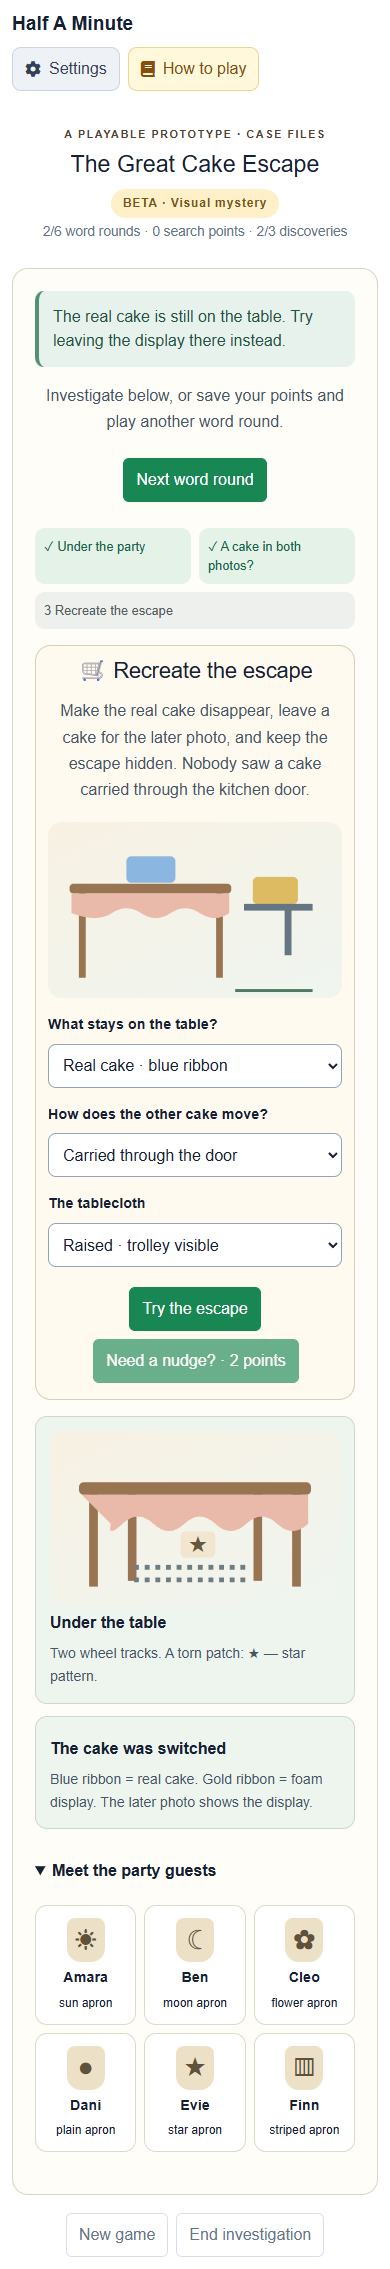
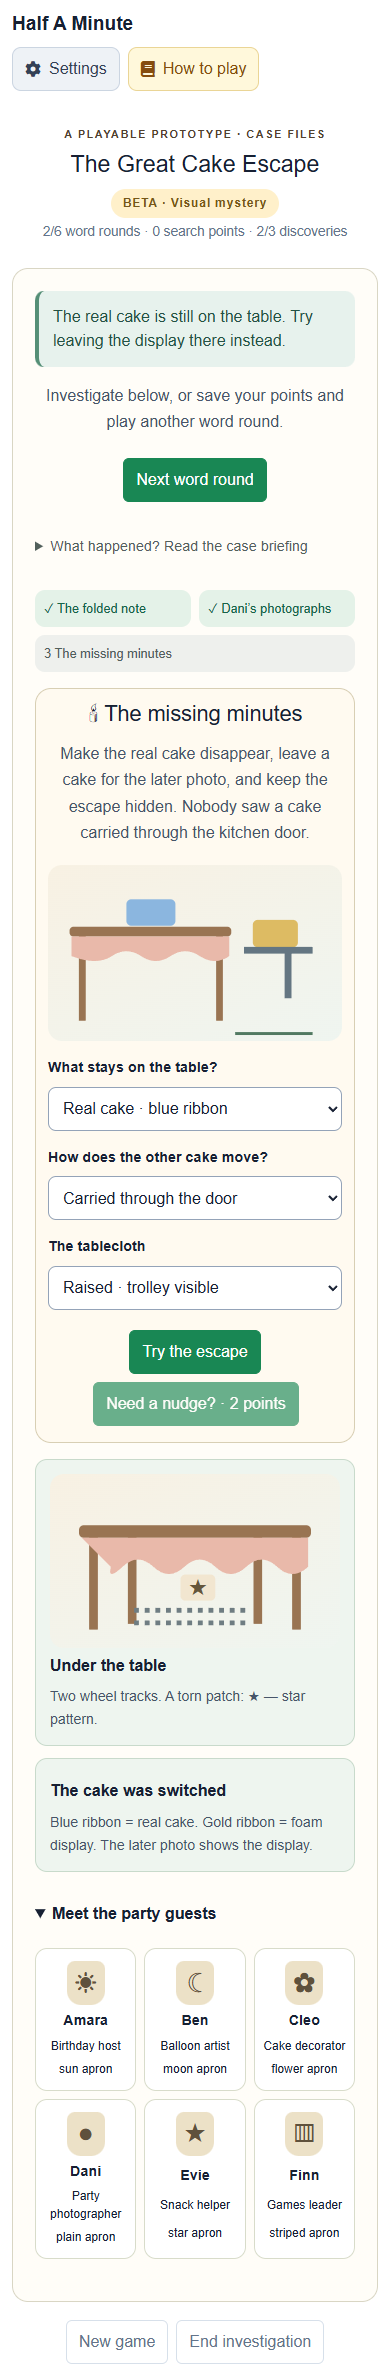
Set the scene before Cake Escape Beta begins

diff --git a/gameplay/cake-beta-ui.js b/gameplay/cake-beta-ui.js
@@ -1,15 +1,23 @@
 import { caseStory } from './cases.js?v=20261031.beta1';
 import { countdownLabel } from './rules.js?v=20261030.2';
-import { BETA_PUZZLES } from './cake-beta-state.js?v=20261031.beta1';
+import { BETA_PUZZLES } from './cake-beta-state.js?v=20261031.beta2';
 const h=(tag,cls='',text='')=>{const n=document.createElement(tag);n.className=cls;n.textContent=text;return n;};
 const note=(parent,text,cls='party-note')=>parent.appendChild(h('p',cls,text));
 function button(text,action,disabled=false,data={}){const n=h('button','btn btn-success',text);n.type='button';n.dataset.betaAction=action;n.disabled=disabled;for(const[k,v]of Object.entries(data))n.dataset[k]=String(v);return n;}
 const marks=['☀','☾','✿','●','★','▥'];
 const aprons=['sun','moon','flower','plain','star','striped'];
+const opening = [
+    'The music stops at Amara’s birthday party. Everyone gathers for the candles—but the cake stand is empty.',
+    'Dani’s latest photo seems to show a cake still in place. Nobody saw one carried through the kitchen door. So how did it disappear?',
+    'Six helpers were preparing the surprise. One has hidden the real cake as a prank and is keeping quiet. A folded note lies beside the empty stand. Someone wants you to play along.'
+];
 function picture(kind,options={}){
     const n=document.createElementNS('http://www.w3.org/2000/svg','svg');n.setAttribute('viewBox','0 0 300 180');n.setAttribute('role','img');
     let body='',label='';
-    if(kind==='cake'){
+    if(kind==='scene'){
+        label='Birthday party room: bunting, balloons, an empty cake stand and a folded note; kitchen door on the left, garden on the right.';
+        body='<path d="M14 15q136 50 272 0" fill="none" stroke="#9d9c82" stroke-width="2"/><path d="M40 23l9 21 13-16m27 7l10 21 12-18m28 3l10 21 11-21m28-3l12 20 10-23m25-9l13 18 8-23" fill="#c77c77"/><rect x="12" y="65" width="44" height="95" rx="5" fill="#f3dfba" stroke="#ad9b7c"/><circle cx="47" cy="112" r="3" fill="#967f57"/><rect x="242" y="70" width="45" height="73" rx="5" fill="#d6e7d0"/><path d="M248 131l11-28 9 19 12-35" fill="none" stroke="#8da882" stroke-width="4"/><path d="M60 146h180v20H60z" fill="#e7b4a4"/><path d="M65 166v9m170-9v9" stroke="#a3825d" stroke-width="5"/><ellipse cx="150" cy="140" rx="40" ry="6" fill="#a7b6b6"/><path d="M145 141v10h10v-10" fill="#a7b6b6"/><path d="M127 129v-32h46v32" fill="none" stroke="#b0a58b" stroke-width="2" stroke-dasharray="4 4"/><text x="150" y="120" text-anchor="middle" font-size="26" fill="#8a7b62">?</text><path d="M201 135h19l-4 10h-19z" fill="#fffaf0" stroke="#a9987a"/><path d="M200 136l7 5 11-5" fill="none" stroke="#a9987a"/><ellipse cx="219" cy="66" rx="12" ry="17" fill="#d7b363"/><ellipse cx="202" cy="59" rx="12" ry="17" fill="#9bb8c4"/><path d="M219 83l-3 39m-14-46l14 46" stroke="#ae9d85" fill="none"/>';
+    }else if(kind==='cake'){
         const gold=options.gold;label=gold?'Later photo: cake-shaped display with a gold ribbon, three red decorations and a silver stand.':'Before photo: real cake with a blue ribbon, three red decorations and a silver stand.';
         body=`<path d="M45 140h210v12H45z" fill="#8caaab"/><path d="M141 138v25h18v-25" fill="#bcc9ca"/><rect x="68" y="70" width="164" height="68" rx="10" fill="#f4d8b3"/><path d="M68 84q12 20 24 0t24 0t24 0t24 0t24 0t24 0v-14H68z" fill="#fff9eb"/><rect x="68" y="113" width="164" height="13" fill="${gold?'#b78318':'#3264b7'}"/><path d="M140 109l-15-6v26l15-6 15 6v-26z" fill="${gold?'#b78318':'#3264b7'}"/><g fill="#bd4450"><circle cx="105" cy="65" r="9"/><circle cx="150" cy="65" r="9"/><circle cx="195" cy="65" r="9"/></g><g stroke="#47754f" stroke-width="3"><path d="M105 57l5-10m40 10l5-10m40 10l5-10"/></g>`;
     }else if(kind==='table'){
@@ -52,17 +60,25 @@ export function createBetaSurface(root,callbacks){
     root.addEventListener('change',event=>{const field=event.target.dataset.betaField;if(!field)return;send({type:field==='suspect'||field==='destination'?'beta-theory':'beta-experiment',field,value:event.target.value,index:Number(event.target.value),revision:current.game.party.beta.revision});});
     function people(parent,story){
         const section=h('details','beta-people');section.open=true;section.appendChild(h('summary','','Meet the party guests'));
-        const list=h('div','beta-suspects');story.people.forEach((p,i)=>{const card=h('div','beta-suspect');card.appendChild(h('span','beta-apron',marks[i]));card.appendChild(h('strong','',p.name));card.appendChild(h('small','',`${aprons[i]} apron`));list.appendChild(card)});section.appendChild(list);parent.appendChild(section);
+        const list=h('div','beta-suspects');story.people.forEach((p,i)=>{const card=h('div','beta-suspect');card.appendChild(h('span','beta-apron',marks[i]));card.appendChild(h('strong','',p.name));card.appendChild(h('small','',p.role));card.appendChild(h('small','',`${aprons[i]} apron`));list.appendChild(card)});section.appendChild(list);parent.appendChild(section);
+    }
+    function briefing(parent,story,full=true){
+        const scene=h('section','beta-briefing');
+        if(full){scene.appendChild(h('span','party-eyebrow','The birthday bash · Moments before the candles'));scene.appendChild(h('h3','','The cake that couldn’t have vanished'));scene.appendChild(picture('scene'));}
+        opening.forEach(text=>note(scene,text));
+        const mission=h('div','beta-mission');mission.appendChild(h('strong','','Your mission'));note(mission,'Find who took the cake, uncover the trick, and recover it before the party resumes.');scene.appendChild(mission);parent.appendChild(scene);
+        if(full){people(parent,story);note(parent,'Play word rounds to earn search points. Spend 2 points to follow a lead or ask for a hint. Investigate together; only the speaker sees the word card.','beta-how');}
     }
     function select(parent,label,field,choices,value,disabled){const wrap=h('div','form-field');const caption=h('label','',label);caption.htmlFor='beta-'+field;const input=h('select');input.id=caption.htmlFor;input.dataset.betaField=field;input.disabled=disabled;for(const[v,text]of choices){const option=h('option','',text);option.value=String(v);input.appendChild(option)}input.value=String(value);wrap.append(caption,input);parent.appendChild(wrap);}
     function board(parent,state){
         const {game,view,busy,local}=state,b=game.party.beta,story=caseStory(game),locked=busy||!view.canExplore;
-        const nav=h('div','beta-steps');BETA_PUZZLES.forEach((p,i)=>nav.appendChild(h('span',b.solved[i]?'is-solved':'',`${b.solved[i]?'✓':i+1} ${p.title}`)));parent.appendChild(nav);
+        const recap=h('details','beta-recap');recap.appendChild(h('summary','','What happened? Read the case briefing'));briefing(recap,story,false);parent.appendChild(recap);
+        const nav=h('div','beta-steps');BETA_PUZZLES.forEach((p,i)=>nav.appendChild(h('span',b.solved[i]?'is-solved':'',`${b.solved[i]?'✓':i+1} ${b.opened[i]||b.solved[i]||i===0?p.title:'Undiscovered lead'}`)));parent.appendChild(nav);
         const index=[0,1,2].find(i=>!b.solved[i]);
         if(index!==undefined){const p=BETA_PUZZLES[index],card=h('section','beta-puzzle');card.appendChild(h('h3','',`${p.icon} ${p.title}`));
-            if(!b.opened[index]){note(card,index===0?'A witness left a riddle. Search the party scene to follow the cake.':index===1?'Develop two photos. Is the cake really where everyone thinks it is?':'Use the discoveries to try the escape for yourselves.');card.appendChild(button(`Investigate · ${p.cost} points`,'beta-buy',locked||b.points<p.cost,{index}));if(b.points<p.cost)note(card,`Earn ${p.cost-b.points} more search point${p.cost-b.points===1?'':'s'} in a word round.`);}
+            if(!b.opened[index]){note(card,index===0?'Someone left this note beside the empty stand. Earn your first search points to open it.':index===1?'The tracks suggest something moved. Dani took photos during the party—what did the camera see?':'The later photo shows a display. Can you explain how the real cake left without being seen?');card.appendChild(button(`Investigate · ${p.cost} points`,'beta-buy',locked||b.points<p.cost,{index}));if(b.points<p.cost)note(card,`Earn ${p.cost-b.points} more search point${p.cost-b.points===1?'':'s'} in a word round.`);}
             else{
-                if(index===0){card.appendChild(picture('table'));note(card,'“Four legs. A skirt. Something hidden underneath.”','beta-riddle');note(card,'Where would you look?');const choices=h('div','beta-choices');for(const[id,text]of [['table','🪑 Under the table'],['door','🚪 Behind the door'],['garden','🌿 In the garden'],['camera','📷 Inside the camera']])choices.appendChild(button(text,'beta-answer',locked,{index,answer:id}));card.appendChild(choices);}
+                if(index===0){card.appendChild(picture('scene'));note(card,'Inside the folded note:');note(card,'“Four legs. A skirt. Something hidden underneath.”','beta-riddle');note(card,'Where would you look?');const choices=h('div','beta-choices');for(const[id,text]of [['table','🪑 Under the table'],['door','🚪 Behind the door'],['garden','🌿 In the garden'],['camera','📷 Inside the camera']])choices.appendChild(button(text,'beta-answer',locked,{index,answer:id}));card.appendChild(choices);}
                 if(index===1){const pair=h('div','beta-photos');for(const[gold,label]of [[false,'Before the disappearance'],[true,'Later: a cake is still there']]){const panel=h('figure');panel.appendChild(picture('cake',{gold}));panel.appendChild(h('figcaption','',label));pair.appendChild(panel)}card.appendChild(pair);note(card,'What changed? The real cake has a blue ribbon. The foam display has a gold ribbon.');const choices=h('div','beta-choices');for(const[id,label]of [['ribbon','The ribbon'],['candles','The red decorations'],['stand','The stand']])choices.appendChild(button(label,'beta-answer',locked,{index,answer:id}));card.appendChild(choices);}
                 if(index===2){note(card,'Make the real cake disappear, leave a cake for the later photo, and keep the escape hidden. Nobody saw a cake carried through the kitchen door.');card.appendChild(picture('experiment',{experiment:b.experiment}));select(card,'What stays on the table?','prop',[['real','Real cake · blue ribbon'],['foam','Foam display · gold ribbon']],b.experiment.prop,locked);select(card,'How does the other cake move?','transport',[['hand','Carried through the door'],['trolley','Trolley under the table']],b.experiment.transport,locked);select(card,'The tablecloth','cloth',[['up','Raised · trolley visible'],['down','Lowered · trolley hidden']],b.experiment.cloth,locked);card.appendChild(button('Try the escape','beta-test',locked));}
                 const hints=b.hints[index]||0;for(let j=0;j<hints;j++)note(card,p.hints[j],'beta-hint');if(hints<p.hints.length)card.appendChild(button('Need a nudge? · 2 points','beta-hint',locked||b.points<2,{index}));
@@ -90,8 +106,9 @@ export function createBetaSurface(root,callbacks){
         const body=h('section','party-stage');root.appendChild(body);const active=state.connected&&(view.active||local),host=view.host||local;
         if(feedback)note(body,feedback,'party-feedback');
         if(!active){note(body,state.connected?'Rejoin to restore your seat.':'Connection lost. Reconnecting…');body.appendChild(button('Rejoin lobby','rejoin',busy));}
+        else if(!game.isGameStarted){body.appendChild(picture('scene'));body.appendChild(h('h3','','A birthday surprise has gone wrong'));note(body,'The guests are ready for the candles. The cake has vanished. Gather your crew to uncover what happened.');note(body,'2–12 players · One shared mystery');if(host)body.appendChild(button('Open the case','start-game',busy||!view.canStartGame));else note(body,'The host opens the case when everyone is ready.');}
+        else if(game.phase==='briefing'){briefing(body,caseStory(game));if(host)body.appendChild(button('Begin investigation','beta-begin',busy));else note(body,'Read the scene together. The host begins the investigation when the crew is ready.');}
         else if(gateName&&game.phase!=='finished'){body.appendChild(h('h3','',`Pass the device to ${gateName}`));note(body,'Only the speaker sees the word card. Everyone guesses aloud.');body.appendChild(button(`I’m ${gateName}`,'local-ready',false,{playerId:gateId}));}
-        else if(!game.isGameStarted){body.appendChild(picture('cake'));body.appendChild(h('h3','','The candles are ready. The cake is gone.'));note(body,'Earn search points by guessing words. Spend 2 to investigate a puzzle or get a hint. Solve three discoveries, then find the prankster and the cake.');note(body,'2–12 players · One crew · Random speakers, with no repeats until everyone has spoken.');if(host)body.appendChild(button('Start the beta case','start-game',busy||!view.canStartGame));else note(body,'The host starts when everyone is ready.');}
         else if(game.phase==='describing'){body.appendChild(h('h3','',view.countdownRemainingMs?'Get ready…':view.speaker?'Describe these words':'Guess aloud'));body.appendChild(h('strong','party-clock',view.countdownRemainingMs?countdownLabel(view.countdownRemainingMs):String(view.remainingSeconds))).id='partyClock';note(body,view.countdownRemainingMs?'Words stay hidden until Go.':'Every correct word earns one search point for the crew.');if(view.showWords){const list=h('ol','table-word-card');game.turn.words.forEach(word=>list.appendChild(h('li','party-word',word)));body.appendChild(list)}if(view.canEndRound)body.appendChild(button('End round','end-round',busy));}
         else if(game.phase==='selecting'){body.appendChild(h('h3','','Which words were guessed?'));note(body,'Each correct word earns 1 shared search point. Your saved points carry over.');game.turn.words.forEach((word,i)=>{const n=button(`${game.turn.selectedIndexes.includes(i)?'✓ ':''}${word}`,'toggle-answer',busy||!view.canSelect,{index:i});n.className='party-answer'+(game.turn.selectedIndexes.includes(i)?' is-selected':'');n.setAttribute('aria-pressed',String(game.turn.selectedIndexes.includes(i)));body.appendChild(n)});if(view.canSelect)body.appendChild(button('Bank search points','submit-round',busy));else note(body,'The speaker confirms the correct words.');}
         else if(game.phase==='finished'){

diff --git a/script.js b/script.js
@@ -1,7 +1,7 @@
 import { initializeApp } from "https://www.gstatic.com/firebasejs/13.0.0/firebase-app.js";
 import { getDatabase, onValue, ref, get, update, runTransaction, onDisconnect, serverTimestamp } from "https://www.gstatic.com/firebasejs/13.0.0/firebase-database.js"
-import * as OnlineState from './online/state.js?v=20261031.beta1';
-import { OnlineClient } from './online/client.js?v=20261031.beta1';
+import * as OnlineState from './online/state.js?v=20261031.beta2';
+import { OnlineClient } from './online/client.js?v=20261031.beta2';
 import * as Gameplay from './gameplay/rules.js?v=20261030.2';
 import * as AiErrors from './gameplay/ai-errors.js?v=20261020.14';
 import { createAiWordClient } from './gameplay/ai-client.js?v=20261029.5';
@@ -11,9 +11,9 @@ import * as Experience from './gameplay/experience.js?v=20261030.4';
 import * as PackLibrary from './gameplay/saved-packs.js?v=20261029.5';
 import { createScreenAwake } from './gameplay/screen-awake.js?v=20261029.4';
 import * as Modes from './gameplay/modes.js?v=20261031.beta1';
-import { createPartySurface } from './gameplay/party-ui.js?v=20261031.beta1';
+import { createPartySurface } from './gameplay/party-ui.js?v=20261031.beta2';
 import { partySummary, sharePartyResult } from './gameplay/party-results.js?v=20261031.beta1';
-import { partySnapshot } from './gameplay/party-state.js?v=20261031.beta1';
+import { partySnapshot } from './gameplay/party-state.js?v=20261031.beta2';
 import { CASES, CASE_IDS, caseOptionLabel, CASE_DIFFICULTIES } from './gameplay/cases.js?v=20261031.beta1';
 import { caseWordObjects, drawCaseCard } from './gameplay/case-draw.js?v=20261031.beta1';
 
@@ -176,7 +176,7 @@ function modeSettingsPresentation(settings) {
         boost: 'Choose a normal turn or risk before the words appear. Get at least 60% correct (3 of 5) to add 2 to your clue points; miss and subtract 2, with a floor of zero. Bank 2 points first. After risking, complete one normal turn before risking again.',
         double: 'Once per team per match, risk before seeing the card. Meet the 60% target (3 of 5) to double your clue points. Miss and lose 3 banked points, earning no clue points. Bank 3 points first.',
         table: `For 3–8 players. Only the speaker sees the numbered word card after Go. Local play and online voice-call play use spoken guesses. After the round, the speaker awards each word to the first correct guesser, or Nobody if skipped. Select every tied guesser for simultaneous correct answers; speaker credit stays 1 per solved word. ${settings.tableScoring === 'guesser' ? 'Only the first correct guesser earns 1 point; the speaker earns no points.' : 'The first correct guesser and speaker each earn 1 point per solved word.'} Timed rounds default to 60 seconds; Unlimited lets the speaker finish when ready. Words per card follows Settings. Online, the host chooses voice call or typed clues at match start. Typed play takes one word at a time: send clues, read guesses in arrival order, and award the first correct one. Everyone gets equal speaking turns; late arrivals watch until rematch.`,
-        cakebeta: 'One crew solves a visual mystery. Each correct word earns one search point. Spend 2 points to open the next puzzle or get a hint; unspent points carry over. Solve the table riddle, compare two photos, then try the escape. Hints and evidence stay visible. Wrong puzzle attempts let you try again without a penalty. Only the speaker sees the words after Go. Speakers are drawn randomly without repeats until everyone has spoken. Word rounds are shared by the crew; everyone can investigate between rounds. After all three discoveries, or when the word-round budget ends, the host submits one final accusation: who and where. You need all three discoveries and both answers correct to win. An unsuccessful attempt keeps the answer hidden, with optional reveal, same-scenario replay or a new scenario. Local play uses one device. Online play uses your usual voice call. The beta uses built-in cake-related words; AI packs, themes and training mode do not apply.',
+        cakebeta: 'One crew solves a visual mystery. Each correct word earns one search point. Spend 2 points to open the next puzzle or get a hint; unspent points carry over. Read the opening scene, follow an anonymous note, examine the party photos, then test your explanation. Hints and evidence stay visible. Wrong puzzle attempts let you try again without a penalty. Only the speaker sees the words after Go. Speakers are drawn randomly without repeats until everyone has spoken. Word rounds are shared by the crew; everyone can investigate between rounds. After all three discoveries, or when the word-round budget ends, the host submits one final accusation: who and where. You need all three discoveries and both answers correct to win. An unsuccessful attempt keeps the answer hidden, with optional reveal, same-scenario replay or a new scenario. Local play uses one device. Online play uses your usual voice call. The beta uses built-in cake-related words; AI packs, themes and training mode do not apply.',
         case: 'One crew investigates an authored mystery. Each turn draws a random speaker. Nobody repeats before everyone has spoken. Investigation turns are shared by the whole crew, not per player. The speaker chooses a lead, then describes its words after Go while everyone else guesses aloud. Confirm correct words to recover their documents; related words can open the same file once. Read logs, receipts and reference cards together. Their clocks, labels and observations need interpreting: documents do not eliminate suspects for you. Between rounds, anyone can arrange the shared four-event timeline and compare two recovered exhibits that support the case’s connection question. These are drafts, with no correctness feedback. The host records who, how and where and reviews the entire reconstruction before submitting the attempt. Closing a case requires the explanation, timeline and supporting pair to fit. Three optional notebook nudges are available after two turns. Six investigations is the default; you can also submit early. An unsuccessful attempt confirms only the parts you got right, keeping other answers and unopened evidence hidden. Try again with your notebook and answers kept, or start the case over. The full explanation appears after a solve or an explicit end-of-game reveal. You can replay the same scenario or draw a different one. All cases and words are prebuilt, with no AI judging. Each case has three authored scenarios. A new investigation draws one; replaying the same scenario keeps its evidence and answer. Local play works with the loaded built-in data; online play uses your usual voice call.'
     };
     document.getElementById('modeHowToPlay').hidden = !rules[mode];
@@ -281,7 +281,7 @@ async function partyCommand(action) {
     if (!localPartyGame) return;
     const now = Date.now();
     for (const record of Object.values(localPartyGame.presence)) for (const value of Object.values(record.connections)) value.lastSeen = now;
-    const identity = ['rematch', 'end-game', 'accuse', 'set-theory', 'open-theory', 'resume-case', 'retry-case', 'reveal-case', 'case-hint', 'beta-review', 'beta-back', 'beta-theory', 'beta-accuse'].includes(action.type) ? localPartyGame.hostId : localPartySeat || localPartyGame.turn.speakerId;
+    const identity = ['rematch', 'end-game', 'accuse', 'set-theory', 'open-theory', 'resume-case', 'retry-case', 'reveal-case', 'case-hint', 'beta-begin', 'beta-review', 'beta-back', 'beta-theory', 'beta-accuse'].includes(action.type) ? localPartyGame.hostId : localPartySeat || localPartyGame.turn.speakerId;
     const actor = partyPeople(localPartyGame).find(player => player.playerId === identity);
     const next = OnlineState.act(localPartyGame, actor, { ...request, turnId: localPartyGame.turn?.id, matchId: localPartyGame.matchId }, now,
         { drawWords: drawOnlineWords, planChaos: planOnlineChaos });

diff --git a/gameplay/cake-beta-state.js b/gameplay/cake-beta-state.js
@@ -3,9 +3,9 @@ import { actCase, caseSnapshot, reconcileCase, caseView } from './case-state.js?
 import { caseStory } from './cases.js?v=20261031.beta1';
 
 export const BETA_PUZZLES = [
-    { title: 'Under the party', cost: 2, icon: '🔎', hints: ['The skirt is made of fabric.', 'Look for furniture with four legs and a tablecloth.'] },
-    { title: 'A cake in both photos?', cost: 2, icon: '📷', hints: ['The decoration tells you which cake you are looking at.', 'Compare the ribbons. Blue is real; gold belongs to the foam display.'] },
-    { title: 'Recreate the escape', cost: 2, icon: '🛒', hints: ['The later photo must still show a cake. Leave the display behind.', 'Leave the foam display, lower the cloth, and use the trolley.'] }
+    { title: 'The folded note', cost: 2, icon: '✉', hints: ['The skirt is made of fabric.', 'Look for furniture with four legs and a tablecloth.'] },
+    { title: 'Dani’s photographs', cost: 2, icon: '📷', hints: ['The decoration tells you which cake you are looking at.', 'Compare the ribbons. Blue is real; gold belongs to the foam display.'] },
+    { title: 'The missing minutes', cost: 2, icon: '🕯', hints: ['The later photo must still show a cake. Leave the display behind.', 'Leave the foam display, lower the cloth, and use the trolley.'] }
 ];
 export function betaSnapshot(data) {
     const g = caseSnapshot(data);
@@ -31,10 +31,17 @@ export function actBeta(data, actor, action, now, rules, context) {
         if (!g) return;
         g.party.beta = { points: 0, opened: {}, solved: {}, hints: {}, revision: 0, feedback: '',
             experiment: { prop: 'real', transport: 'hand', cloth: 'up' }, theory: { suspect: -1, destination: -1 } };
-        return prepare(g);
+        g.phase = 'briefing';
+        return g;
     }
     const b = g.party?.beta, host = actor.playerId === g.hostId;
     if (!b) return;
+    if (action.type === 'beta-begin') {
+        if (!host || g.phase !== 'briefing' || action.revision !== b.revision) return;
+        b.revision++; g.phase = 'idle'; g.gameState = 'resumed';
+        reconcileBeta(g, context.people, context.connectedIds);
+        return prepare(g);
+    }
     const member = context.connectedIds.includes(actor.playerId) && g.party.players.some(p => p.id === actor.playerId && !p.departed);
     const board = member && ['idle','waiting','evidence','accusing'].includes(g.phase);
     if (action.type.startsWith('beta-')) {

diff --git a/gameplay/modes.css b/gameplay/modes.css
@@ -1,6 +1,10 @@
 .mode-description, .party-setup { grid-column: 1 / -1; }
 .cake-beta { --beta-ink:#294b45; --beta-paper:#fffaf0; }
 .beta-badge { display:inline-block; padding:5px 12px; border-radius:20px; color:#765719; background:#fff0ca; font-size:.78rem; font-weight:700; letter-spacing:.05em; }
+.beta-briefing { text-align:left; }.beta-briefing .party-eyebrow { display:block; margin-bottom:12px; font-size:.7rem; }.beta-briefing h3 { line-height:1.25; margin-bottom:18px; }
+.beta-briefing>svg { max-width:480px; margin-bottom:20px; }.beta-briefing .party-note { margin:14px 0; }
+.beta-mission { padding:14px 16px; margin:18px 0; border-radius:12px; background:#eaf2e9; color:#294b45; }.beta-mission .party-note { margin:6px 0 0; }
+.beta-how { text-align:left; padding:14px; border-top:1px solid #d8dcca; font-size:.9rem; }.beta-recap { text-align:left; margin-top:18px; }.beta-recap summary { cursor:pointer; color:#52605c; font-size:.9rem; }.beta-recap .beta-briefing { padding-top:8px; }
 .cake-beta .party-stage { background:#fffdf8; border-color:#d9d6c4; }
 .cake-beta svg { display:block; width:100%; max-width:340px; height:auto; margin:0 auto; border-radius:14px; background:linear-gradient(155deg,#f8f1e3,#eff5f0); }
 .cake-beta button { min-height:44px; white-space:normal; overflow-wrap:anywhere; }

diff --git a/index.html b/index.html
@@ -44,7 +44,7 @@
     <link href="https://cdn.jsdelivr.net/npm/bootstrap@5.3.3/dist/css/bootstrap.min.css" rel="stylesheet" integrity="sha384-QWTKZyjpPEjISv5WaRU9OFeRpok6YctnYmDr5pNlyT2bRjXh0JMhjY6hW+ALEwIH" crossorigin="anonymous">
     <link rel="stylesheet" href="https://cdnjs.cloudflare.com/ajax/libs/font-awesome/5.15.4/css/all.min.css">
     <link rel="stylesheet" href="style.css?v=20261030.cases1">
-    <link rel="stylesheet" href="gameplay/modes.css?v=20261031.beta1">
+    <link rel="stylesheet" href="gameplay/modes.css?v=20261031.beta2">
 </head>
 
 <body>
@@ -421,6 +421,6 @@
     <script src="https://cdn.jsdelivr.net/npm/bootstrap@5.3.3/dist/js/bootstrap.bundle.min.js" integrity="sha384-YvpcrYf0tY3lHB60NNkmXc5s9fDVZLESaAA55NDzOxhy9GkcIdslK1eN7N6jIeHz" crossorigin="anonymous"></script>
 
     <script src="data.js?v=20261030.casewords1"></script>
-    <script src="script.js?v=20261031.beta1" type="module"></script>
+    <script src="script.js?v=20261031.beta2" type="module"></script>
 </body>
 </html>

diff --git a/gameplay/party-state.js b/gameplay/party-state.js
@@ -1,7 +1,7 @@
 import { modeOf, normalizeModeSettings } from './modes.js?v=20261031.beta1';
 import { tableSnapshot, actTable, reconcileTable, tableView } from './table-state.js?v=20261030.4';
 import { caseSnapshot, actCase, reconcileCase, caseView } from './case-state.js?v=20261031.beta1';
-import { betaSnapshot, actBeta, reconcileBeta, betaView } from './cake-beta-state.js?v=20261031.beta1';
+import { betaSnapshot, actBeta, reconcileBeta, betaView } from './cake-beta-state.js?v=20261031.beta2';
 const select = (game, table, beta, original) => modeOf(game.settings) === 'table' ? table : modeOf(game.settings) === 'cakebeta' ? beta : original;
 export function partySnapshot(game) { return select(game,tableSnapshot,betaSnapshot,caseSnapshot)(game); }
 export function reconcileParty(game, people, connectedIds, now) { return select(game,reconcileTable,reconcileBeta,reconcileCase)(game,people,connectedIds,now); }

diff --git a/gameplay/party-ui.js b/gameplay/party-ui.js
@@ -1,7 +1,7 @@
 import { modeOf } from './modes.js?v=20261031.beta1';
 import { createTableSurface } from './table-ui.js?v=20261030.4';
 import { createCaseSurface } from './case-ui.js?v=20261031.beta1';
-import { createBetaSurface } from './cake-beta-ui.js?v=20261031.beta1';
+import { createBetaSurface } from './cake-beta-ui.js?v=20261031.beta2';
 export function createPartySurface(root, callbacks) {
     const table = createTableSurface(root, callbacks), investigation = createCaseSurface(root, callbacks), beta = createBetaSurface(root, callbacks);
     return {render(state){(modeOf(state.game.settings)==='table'?table:modeOf(state.game.settings)==='cakebeta'?beta:investigation).render(state)},reset(){table.reset();investigation.reset();beta.reset();}};

diff --git a/online/state.js b/online/state.js
@@ -4,9 +4,9 @@ import { startingTeam, recap, ROUND_COUNTDOWN_MS, matchProgress, completedTurns 
 import { normalizeOnlinePack } from '../gameplay/online-packs.js?v=20261029.3';
 import { REACTIONS, REACTION_TTL_MS, rosterKey, freshSeries, recordSeries } from '../gameplay/experience.js?v=20261030.4';
 import * as Modes from '../gameplay/modes.js?v=20261031.beta1';
-import { actParty, reconcileParty, partyView } from '../gameplay/party-state.js?v=20261031.beta1';
+import { actParty, reconcileParty, partyView } from '../gameplay/party-state.js?v=20261031.beta2';
 
-export const PROTOCOL_VERSION = 18;
+export const PROTOCOL_VERSION = 19;
 export const HOST_TIMEOUT_MS = 10000;
 export const PLAYER_TIMEOUT_MS = 90000;
 

diff --git a/online/client.js b/online/client.js
@@ -1,4 +1,4 @@
-import * as State from './state.js?v=20261031.beta1';
+import * as State from './state.js?v=20261031.beta2';
 
 // Firebase is injected so connection loss, retries and delayed commits can be
 // exercised without touching a production database.

diff --git a/reports/cake-beta-design.md b/reports/cake-beta-design.md
@@ -6,6 +6,8 @@ Choose **Cake Escape Beta · Prototype** from the Game menu. It is a separate mo
 
 ## Complete loop
 
+The investigation opens with a shared, illustrated briefing before any word cards, speaker handoff or puzzles. It establishes the birthday party, empty cake stand, apparently contradictory photograph, anonymous note, six suspects and the crew's mission. The host explicitly begins; this phase survives refresh and is repeated on replay. A collapsed recap remains available between rounds. Unopened future leads and the first riddle's illustration no longer disclose the answer in advance.
+
 1. Guess cake-related built-in words in the existing private countdown/word/review flow. Each confirmed word banks one shared search point. No word opens a document.
 2. Spend two points to open the next discovery. Unspent points carry between rounds. Wrong puzzle attempts and experiment changes are free.
 3. Solve the table riddle; uncover wheel tracks and a patterned apron patch. Guests and their apron symbols are visible together.
@@ -26,10 +28,10 @@ Opening a puzzle or buying one of its two progressive hints costs two points. Sp
 
 ## Validation and next playtest
 
-245 automated tests pass, including all three beta outcomes at every word difficulty, economy and stale revisions, auth/privacy, scoring/expiry/departure recovery, zero-score loss, optional reveal, replay resets and Firebase serialization. The existing 237 checks still pass.
+246 automated tests pass, including enforced briefing/host acknowledgement, all three beta outcomes at every word difficulty, economy and stale revisions, auth/privacy, scoring/expiry/departure recovery, zero-score loss, optional reveal, replay resets and Firebase serialization. The existing 237 checks still pass.
 
-Browser checks complete local play and a two-client game using the Firebase-compatible local transaction adapter. Coverage includes word privacy, odd-point carryover, hints, wrong puzzle retries, all discoveries, final confirmation, summary/PNG, replay/reveal/shuffle, guest edits and refresh recovery. Sixteen layout checks pass at 320/390/1100px and 150% text. See `cake-beta-browser.json` and the three beta screenshots. This is software verification, not evidence of player enjoyment.
+Browser checks complete local play and a two-client game using the Firebase-compatible local transaction adapter. Coverage includes the briefing before play, all six suspects, no early puzzle spoilers, briefing persistence through refresh/replay, word privacy, odd-point carryover, hints, wrong puzzle retries, all discoveries, final confirmation, summary/PNG, replay/reveal/shuffle and guest edits. Twenty layout checks pass at 320/390/1100px and 150% text. See `cake-beta-browser.json` and the four beta screenshots. This is software verification, not evidence of player enjoyment.
 
 For the first blind playtest, watch whether the next action is clear, whether the images invite discussion and whether several players contribute. Ask which discovery felt satisfying and whether they want another case. Adjust the two-point cost and clue strength from those observations before extending the format to other cases.
 
-Online protocol is 18. Refresh all clients and create a new lobby after deployment.
+Online protocol is 19. Refresh all clients and create a new lobby after deployment.
